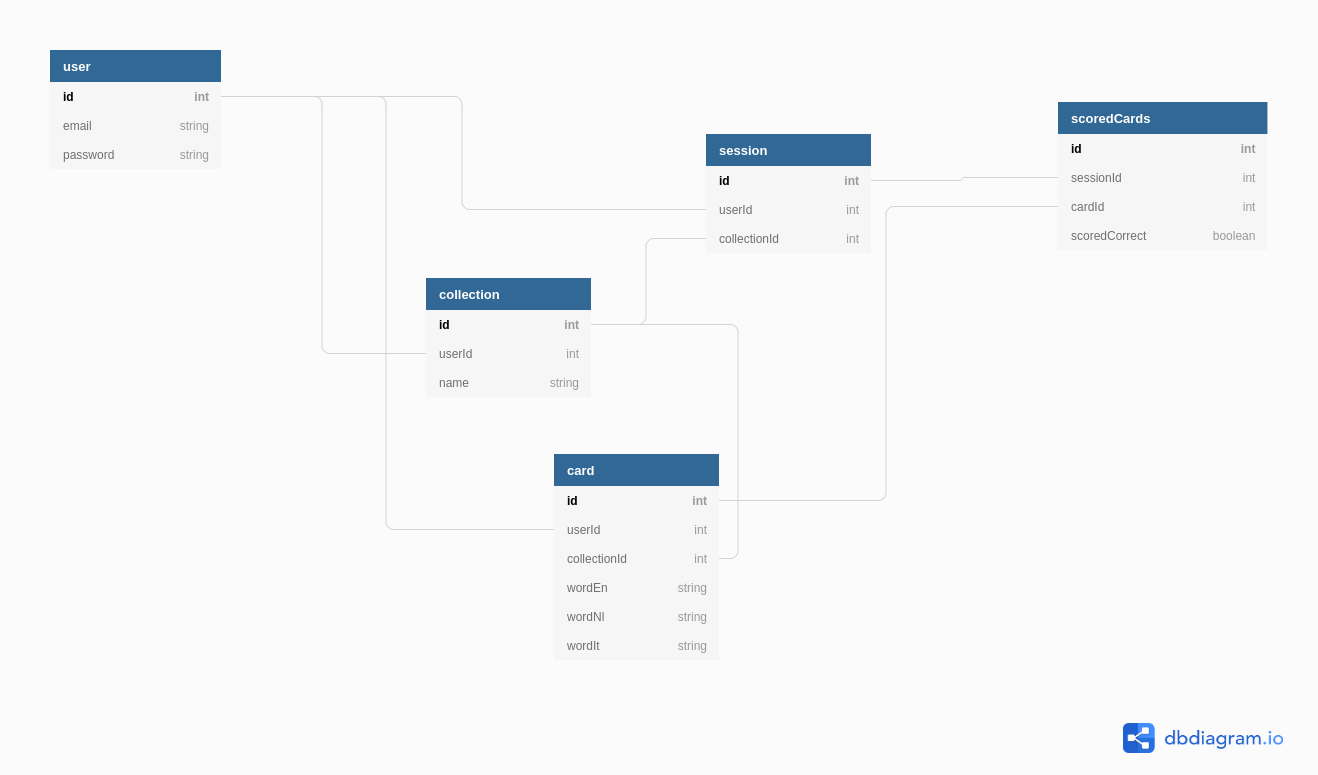
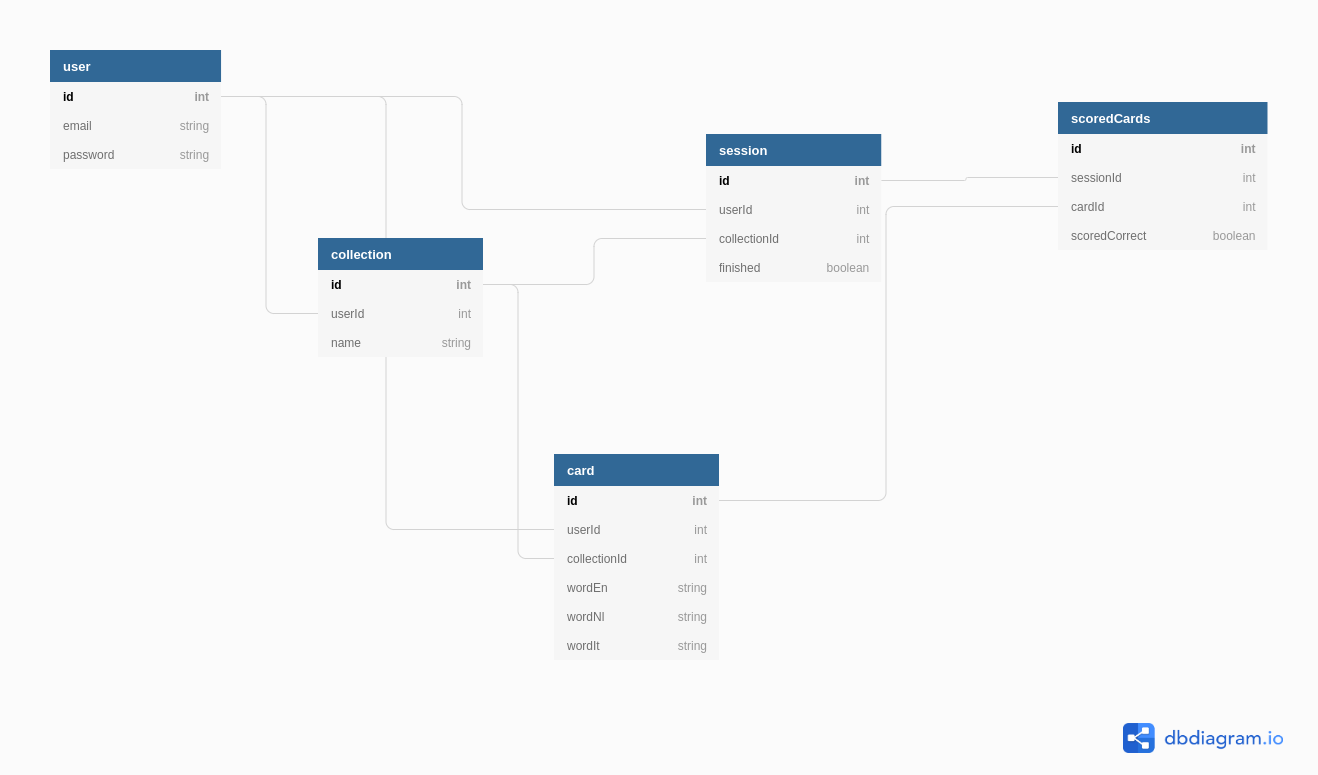
Updated DATABASE_MODEL and README.md

diff --git a/routers/sessions.js b/routers/sessions.js
@@ -1,7 +1,4 @@
 const { Router } = require("express");
-const User = require("../models").user;
-const Collection = require("../models").collection;
-const Card = require("../models").card;
 const Session = require("../models").session;
 const ScoredCard = require("../models").scoredCard;
 const authMiddleware = require("../auth/middleware");
@@ -22,25 +19,5 @@ router.get("/", authMiddleware, async (req, res, next) => {
     next(error);
   }
 });
-
-// router.get("/", authMiddleware, async (req, res, next) => {
-//   try {
-//     const id = req.user.dataValues["id"];
-//     console.log("ID", id);
-//     const user = await User.findByPk(id, {
-//       include: [
-//         {
-//           model: Collection,
-//           include: [Card],
-//         },
-//       ],
-//     });
-
-//     delete user.dataValues["password"];
-//     res.status(200).send(user);
-//   } catch (error) {
-//     next(error);
-//   }
-// });
 
 module.exports = router;

diff --git a/routers/users.js b/routers/users.js
@@ -2,6 +2,7 @@ const { Router } = require("express");
 const User = require("../models").user;
 const Collection = require("../models").collection;
 const Card = require("../models").card;
+const Session = require("../models").session;
 const authMiddleware = require("../auth/middleware");
 
 const router = new Router();
@@ -16,6 +17,7 @@ router.get("/", authMiddleware, async (req, res, next) => {
           model: Collection,
           include: [Card],
         },
+        Session,
       ],
     });
 

diff --git a/README.md b/README.md
@@ -1,129 +1,18 @@
-# Server template
+# FlashcardApp server
 
-This is a simple server template to for my students to start projects quickly.
+Backend REST API for FlashcardApp app using Express.js and Postgres. Object-relational mapping is done using Sequelize.
 
-## Table of contents:
+[Here](https://github.com/n-lusano/flashcardapp-server/blob/development/DATABASE_MODEL.png) is the data model.
 
-- **[Setup](#setup-how-to-use-this-template)**
-- **[Endpoints](#endpoints)**
-- **[Sample requests with axios](#sample-requests-with-axios)**
-- **[Sample requests with httpie](#sample-requests-with-httpie)**
-- **[History of this project (pullrequests)](#history-of-this-project)**
+This is the server repository for the FlashcardApp portfolio project. For more details please refer to the README in the client repository [here](https://github.com/n-lusano/flashcardapp-client/blob/development/README.md)
 
-## SETUP How to use this template
+<!-- NB THE UPDATED LINKS WITH CORRECT MASTER BRANCH! -->
 
-1. Create a new project based on this template using the `Use this template` button
+### Available Scripts
 
-![HOW_TO_USE](https://user-images.githubusercontent.com/20372832/77003323-70966180-695d-11ea-8abe-b362d57135f3.gif)
+In the project directory, you can run:
 
-2. Clone the app
+###### `npm run dev`
 
-```
-git clone git@github.com:YOUR_GITHUB_NAME/YOUR_PROJECT_NAME.git
-```
-
-3. cd into your project
-
-```
-cd YOUR_PROJECT_NAME
-```
-
-4. install dependencies
-
-```
-npm install
-```
-
-5. Configure your database in `config/config.json`
-
-The default assumes a postgres database with
-
-- username: postgres
-- password: secret
-
-```json
-// config/config.json
-{
-  "development": {
-    "username": "postgres",
-    "password": "secret",
-    "database": "YOUR_PROJECT_NAME_HERE_development",
-    "host": "localhost",
-    "dialect": "postgres",
-    "operatorsAliases": "0"
-  }
-}
-```
-
-6. Create database, run migrations & seed data
-
-`package.json` contains a script for this
-
-```bash
-npm run initdev
-```
-
-Or run the commands seperately
-
-```bash
-npx sequelize-cli db:create
-npx sequelize-cli db:migrate
-npx sequelize-cli db:seed:all
-```
-
-7. start server with `nodemon` (recommended for development)
-
-```
-npm run dev
-```
-
-8. or start normally
-
-```
-npm start
-```
-
-## Endpoints
-
-| Method | Path                       | Purpose                             | required parameters   | auth |
-| ------ | -------------------------- | ----------------------------------- | --------------------- | ---- |
-| GET    | '/'                        | Test if your server is running      | none                  | no   |
-| POST   | '/echo'                    | Test POST requests                  | none                  | no   |
-| POST   | '/signup'                  | Create a new user and get a token   | email, name, password | no   |
-| POST   | '/login'                   | Get a token with email & password   | email, password       | no   |
-| GET    | '/me'                      | Get information of this user        | none                  | yes  |
-| POST   | '/authorized_post_request' | Test POST requests (token required) | none                  | yes  |
-
-## Sample requests with axios
-
-To demo making request to this server, some small script are included that make requests using `axios`
-
-The scripts can be found in [/sampleRequests](./sampleRequests)
-
-1. Make sure to follow the the setup in this readme first
-2. cd sampleRequests
-3. Run example requests
-
-```
-node hello.js
-node echo.js
-node signup.js
-node login.js
-node me.js
-node authorizedPost.js
-```
-
-## Sample requests with httpie
-
-To demo making request to this server, bash commands are included that make requests using `httpie`
-
-They can found in [./sampleRequests/httpie.md](./sampleRequests/httpie.md)
-
-## History of this project
-
-- [Setup of the server](https://github.com/Codaisseur/express-template/commit/cd2f790fbab6c561300163466a074fd09a35f704)
-- [Adding a README](https://github.com/Codaisseur/express-template/pull/1)
-- [Setting up the Database](https://github.com/Codaisseur/express-template/pull/2)
-- [Signup, Login & auth middleware](https://github.com/Codaisseur/express-template/pull/3)
-- [Configure cors](https://github.com/Codaisseur/express-template/pull/4)
-- [Seed using models & add delay middleware](https://github.com/Codaisseur/express-template/pull/5)
+Runs the app in the development mode.<br />
+Open [http://localhost:4000](http://localhost:4000) to view it in the browser.
